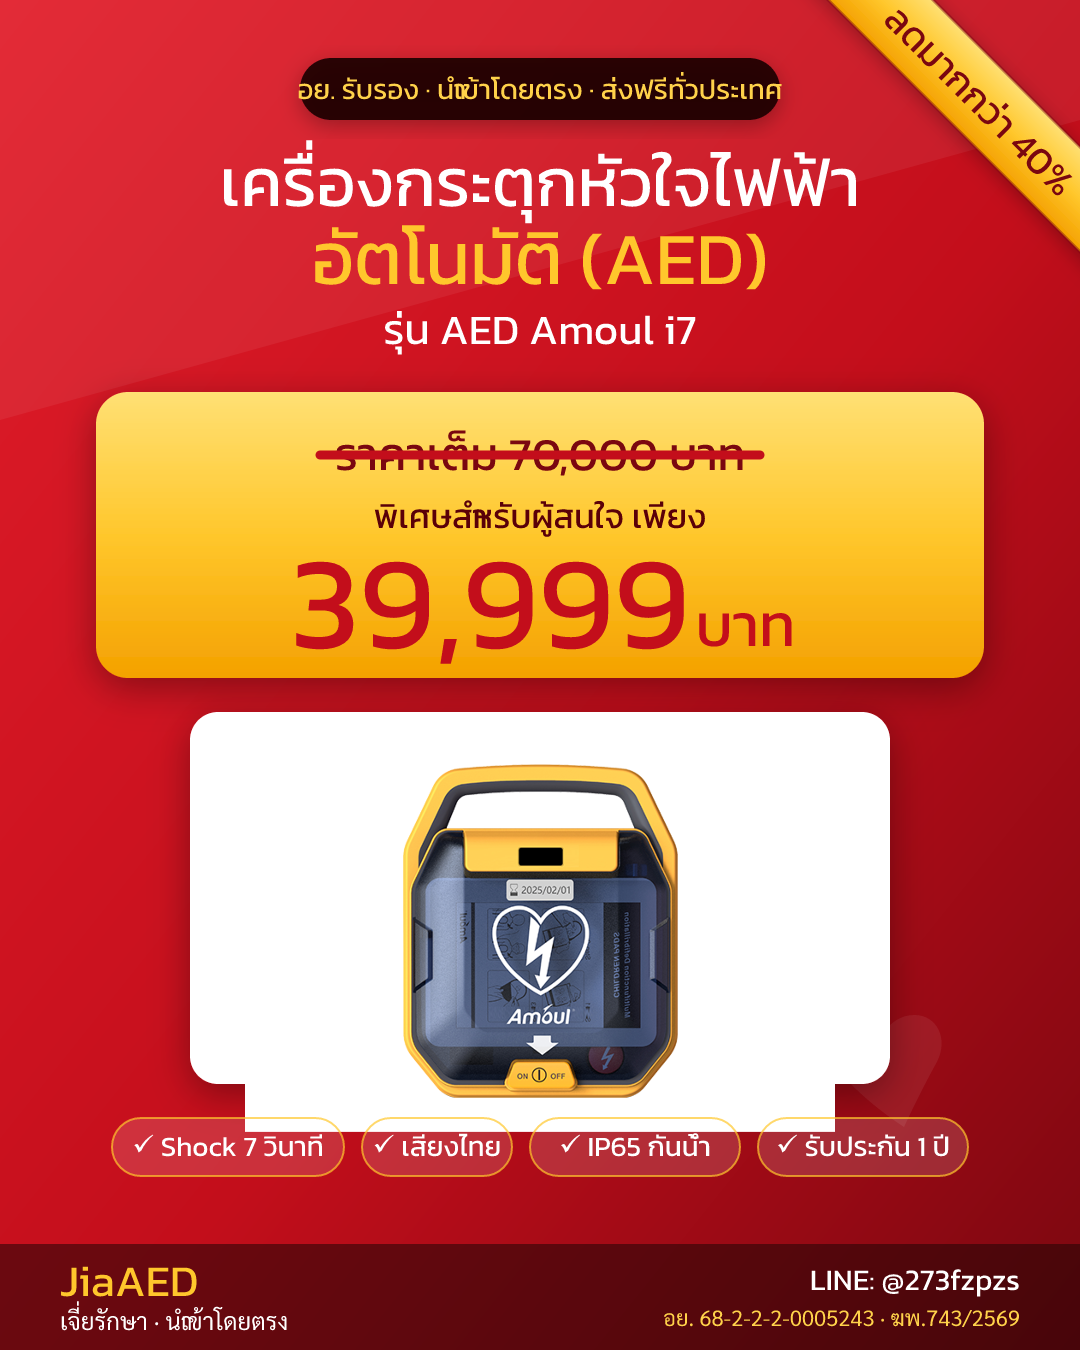
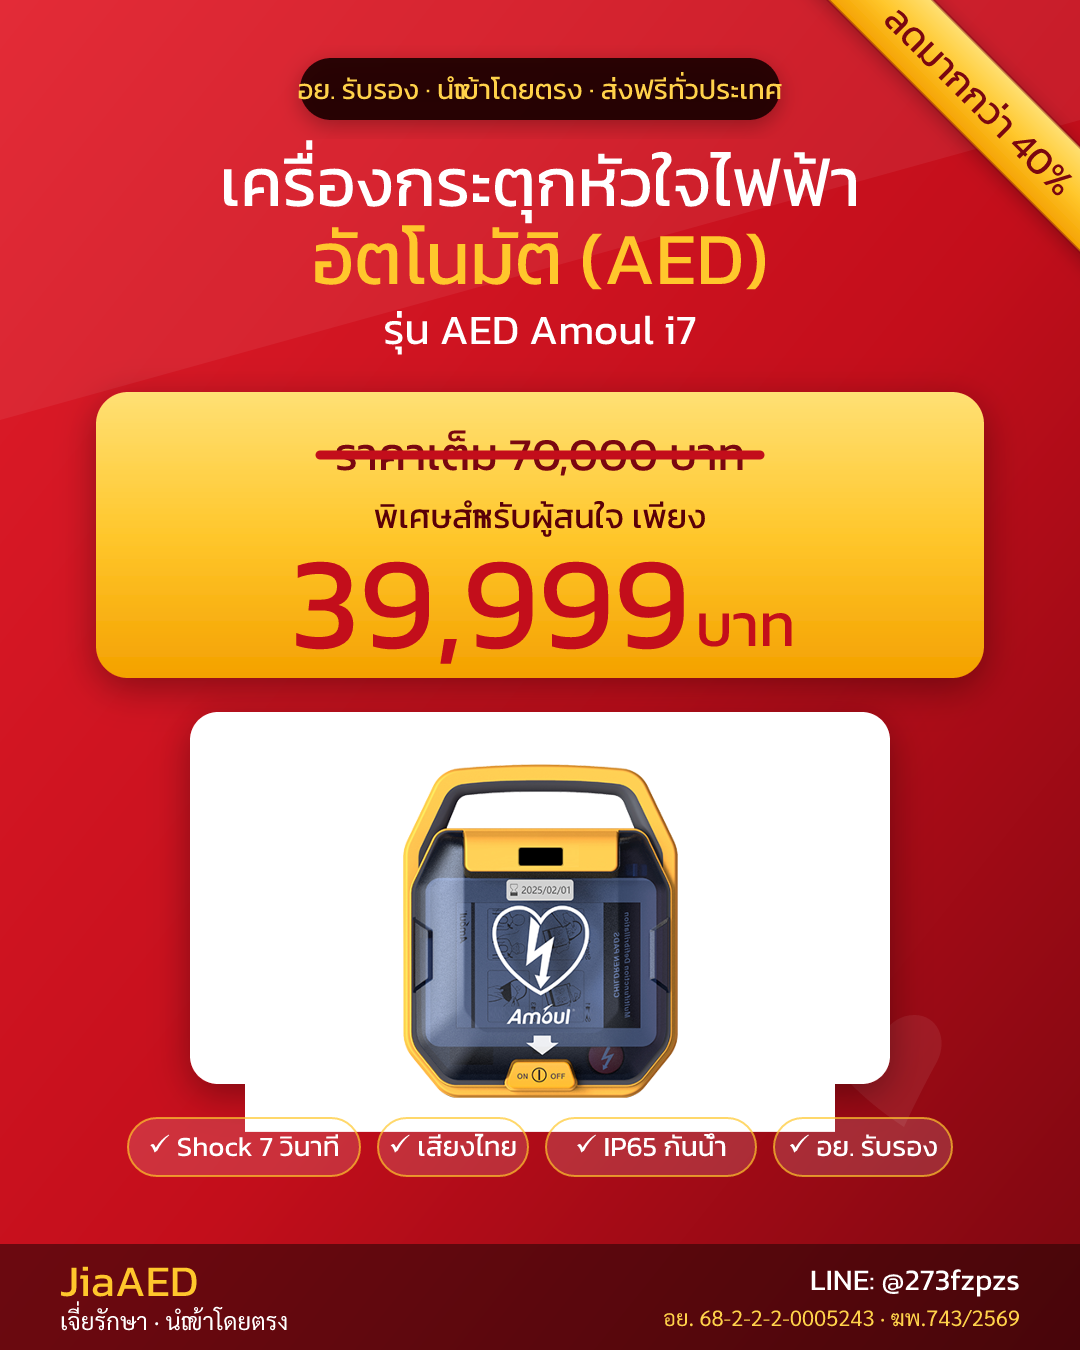
ถอด "รับประกัน 1 ปี" ออกจากทุกช่องทาง ให้สอบถามทีมขายแทน (#71)
ระยะประกัน 1 ปีเป็นจุดอ่อนเทียบคู่แข่ง จึงเลิกแสดงเป็นจุดขาย/สเปก
และเปลี่ยนเป็นข้อความบริการหลังการขาย + ส่งต่อให้ทีมขายตอบเงื่อนไขเอง

- products/หน้าเว็บ/landing/meta/OG: ลบ bullet และ stat ประกัน
- FAQ + knowledge + web-chat prompt + system prompt: ส่งต่อทีมขาย
  (แก้ system prompt ที่เคยระบุ 5 ปีซึ่งไม่สอดคล้องด้วย)
- llms.txt, Google/Meta ads copy, แผนเช่า: ถอดข้อความประกัน
- โปสเตอร์โปรโมชัน: เปลี่ยน chip เป็น 'อย. รับรอง' + regenerate PNG

Changed region(s): [[0.0917, 0.8089, 0.9167, 0.8711]]

diff --git a/app/aed/amoul-i7/page.tsx b/app/aed/amoul-i7/page.tsx
@@ -13,7 +13,7 @@ const LINE_OA = "https://line.me/R/ti/p/@273fzpzs";
 export const metadata: Metadata = {
   title: "AED Amoul i7 — รับส่วนลด + ใบเสนอราคาฟรี | JiaAED",
   description:
-    "เครื่องกระตุกหัวใจไฟฟ้า AED Amoul i7 — Shock 7 วินาที · เสียงไทย · IP65 · อย. รับรอง · รับประกัน 1 ปี · ฟรีค่าจัดส่ง",
+    "เครื่องกระตุกหัวใจไฟฟ้า AED Amoul i7 — Shock 7 วินาที · เสียงไทย · IP65 · อย. รับรอง · ฟรีค่าจัดส่ง",
   robots: { index: false, follow: false },
   alternates: { canonical: "/ads/aed-i7" },
   openGraph: {
@@ -143,7 +143,7 @@ export default function AdsLandingI7() {
         <div className="grid grid-cols-2 md:grid-cols-4 gap-3 mb-8">
           {[
             { icon: "🏅", title: "อย. รับรอง" },
-            { icon: "🛡️", title: "รับประกัน 1 ปี" },
+            { icon: "🛡️", title: "บริการหลังการขายไทย" },
             { icon: "🚚", title: "ส่งฟรีทั่วประเทศ" },
             { icon: "🧾", title: "ออกใบกำกับภาษี" },
           ].map((t) => (

diff --git a/app/layout.tsx b/app/layout.tsx
@@ -31,7 +31,7 @@ export const metadata: Metadata = {
     template: "%s · JiaAED",
   },
   description:
-    "AED Amoul i7 เครื่องกระตุกหัวใจไฟฟ้าอัตโนมัติ Shock พร้อมใน 7 วินาที เสียงแนะนำภาษาไทย IP65 กันน้ำ ทะเบียน อย. 68-2-2-2-0005243 · ฆพ.743/2569 · รับประกัน 1 ปี",
+    "AED Amoul i7 เครื่องกระตุกหัวใจไฟฟ้าอัตโนมัติ Shock พร้อมใน 7 วินาที เสียงแนะนำภาษาไทย IP65 กันน้ำ ทะเบียน อย. 68-2-2-2-0005243 · ฆพ.743/2569",
   keywords: [
     "AED",
     "เครื่องกระตุกหัวใจ",
@@ -50,7 +50,7 @@ export const metadata: Metadata = {
     siteName: "JiaAED",
     title: "JiaAED — AED Amoul i7 เครื่องกระตุกหัวใจไฟฟ้า",
     description:
-      "Shock พร้อมใน 7 วินาที · เสียงแนะนำภาษาไทย · IP65 กันน้ำ · อย. รับรอง · รับประกัน 1 ปี",
+      "Shock พร้อมใน 7 วินาที · เสียงแนะนำภาษาไทย · IP65 กันน้ำ · อย. รับรอง",
     images: [
       {
         url: "/images/aed-i7-poster.jpg",

diff --git a/app/page.tsx b/app/page.tsx
@@ -34,7 +34,6 @@ const specs = [
   { label: "โหมดการทำงาน", value: "Standalone (ค่าเริ่มต้น) — ใช้ช่วยชีวิตได้โดยไม่ต้องเชื่อมต่อ" },
   { label: "มาตรฐาน", value: "CE Mark · ISO 13485 · IP65 · EN 1789:2020 · ILCOR/AHA 2020-2025" },
   { label: "อุปกรณ์ที่รวมมา", value: "Electrode pads + แบตเตอรี่ + กระเป๋า + คู่มือไทย" },
-  { label: "รับประกัน", value: "1 ปี" },
 ];
 
 const adultShocks = [
@@ -115,7 +114,6 @@ export default function Home() {
               <li className="flex items-center gap-1.5"><span className="text-green-400">✓</span> อย. รับรอง</li>
               <li className="flex items-center gap-1.5"><span className="text-green-400">✓</span> ส่งทั่วประเทศ</li>
               <li className="flex items-center gap-1.5"><span className="text-green-400">✓</span> ออกใบกำกับภาษี</li>
-              <li className="flex items-center gap-1.5"><span className="text-green-400">✓</span> รับประกัน 1 ปี</li>
             </ul>
             <div className="flex flex-col sm:flex-row gap-3 mb-6">
               <HeroCta />
@@ -271,7 +269,7 @@ export default function Home() {
               {
                 icon: "🛠️",
                 title: "บริการหลังการขาย",
-                desc: "รับประกัน 1 ปีเต็ม พร้อมทีมเทคนิคให้คำปรึกษาตลอดอายุการใช้งาน 7+ ปี",
+                desc: "ทีมเทคนิคไทยพร้อมให้คำปรึกษาและดูแลตลอดอายุการใช้งาน 7+ ปี",
               },
               {
                 icon: "🇹🇭",

diff --git a/lib/aed/faqs.ts b/lib/aed/faqs.ts
@@ -60,9 +60,9 @@ export const faqs: FAQ[] = [
       "ได้ครับ รองรับการจัดซื้อภาครัฐ โรงพยาบาล และองค์กรเอกชน พร้อมเอกสารครบถ้วน — ใบเสนอราคา ใบกำกับภาษี ใบส่งของ และเอกสาร อย./ใบโฆษณา สอบถามได้ทาง LINE @273fzpzs",
   },
   {
-    question: "รับประกันกี่ปี มีบริการหลังการขายไหม?",
+    question: "มีบริการหลังการขายไหม?",
     answer:
-      "รับประกัน 1 ปีเต็ม พร้อมทีมเทคนิคให้คำปรึกษาตลอดอายุการใช้งาน 7+ ปี จัดส่งทั่วประเทศและบริการติดตั้งสาธิตการใช้งาน",
+      "มีครับ — ทีมเทคนิคไทยให้คำปรึกษาและดูแลตลอดอายุการใช้งาน 7+ ปี จัดส่งทั่วประเทศพร้อมบริการติดตั้งสาธิตการใช้งาน สอบถามเงื่อนไขการรับประกันและบริการของแต่ละรุ่นได้ที่ทีมขาย LINE @273fzpzs",
   },
   {
     question: "เครื่อง AED ควรติดตั้งที่ไหนบ้าง?",

diff --git a/lib/aed/knowledge.ts b/lib/aed/knowledge.ts
@@ -126,7 +126,8 @@ export const knowledgeArticles: KnowledgeArticle[] = [
   {
     id: "warranty-service",
     title: "การรับประกันและบริการหลังการขาย",
-    content: `- **รับประกัน 1 ปี** จากวันส่งมอบ (ครอบคลุมความผิดปกติของการผลิต ไม่ครอบคลุมอุบัติเหตุ การใช้ผิดวิธี)
+    content: `- **เงื่อนไขและระยะเวลาการรับประกัน:** สอบถามกับทีมขายเจี่ยรักษา (เงื่อนไขอาจต่างกันตามรุ่น/ล็อต) — ทักไลน์ @273fzpzs หรือ [กรอกฟอร์ม](/#contact)
+- ครอบคลุมความผิดปกติจากการผลิต ไม่ครอบคลุมอุบัติเหตุหรือการใช้ผิดวิธี
 - ห้ามให้บุคคลที่ไม่ได้รับการรับรองซ่อมเอง
 - Global hotline ผู้ผลิต: [phone redacted] (จันทร์-ศุกร์ 8:30-18:00)
 - ฉุกเฉิน 24/7: [phone redacted] (มี WhatsApp)

diff --git a/lib/aed/products.ts b/lib/aed/products.ts
@@ -22,7 +22,6 @@ export const products: Product[] = [
       "เสียงแนะนำ 5 ภาษา (TH/EN/CN/ES/IT)",
       "Escalating 100-360J ผู้ใหญ่ · 10-100J เด็ก",
       "Standalone — ไม่ต้องเชื่อมต่อก็ใช้งานได้",
-      "รับประกัน 1 ปี",
     ],
     badge: null,
   },
@@ -37,7 +36,6 @@ export const products: Product[] = [
       "ครบชุดพร้อมติดตั้ง",
       "ตู้กันฝุ่นกันน้ำ IP65",
       "สัญญาณเตือนเปิดตู้",
-      "รับประกัน 1 ปี",
     ],
     badge: "ยอดนิยม",
   },
@@ -52,7 +50,6 @@ export const products: Product[] = [
       "เคลื่อนย้ายได้สะดวก",
       "แท่นตั้งพื้นมั่นคง",
       "มองเห็นได้ชัด",
-      "รับประกัน 1 ปี",
     ],
     badge: null,
   },

diff --git a/lib/aed/system-prompt.ts b/lib/aed/system-prompt.ts
@@ -70,7 +70,7 @@ ${productBlock()}
 ## FAQ ที่ต้องตอบได้
 - AED คืออะไร: เครื่องช่วยชีวิตเมื่อหัวใจหยุดเต้น ใครก็ใช้ได้ มีเสียงแนะนำตลอด
 - ทำไมต้องมี: กฎหมายบังคับสถานที่สาธารณะ อาคาร >5000 ตรม. / พนักงาน >200 คน (พ.ร.บ. 2560)
-- รับประกัน: ตัวเครื่อง 5 ปี | แผ่น Pad 2 ปี | แบตเตอรี่ 5 ปี
+- รับประกัน: สอบถามเงื่อนไขและระยะเวลากับทีมขาย (อายุแบตเตอรี่ ≥ 5 ปี · แผ่นอิเล็กโทรด ~5 ปี เป็นข้อมูลอายุใช้งาน ไม่ใช่ระยะประกัน)
 - ส่งของ: Kerry Express ทั่วไทย 1-2 วันทำการ ฟรีค่าส่ง
 - ชำระ: โอน / บัตรเครดิต / QR PromptPay
 

diff --git a/lib/aed/web-chat-prompt.ts b/lib/aed/web-chat-prompt.ts
@@ -34,7 +34,7 @@ ${productBlock()}
 - ทะเบียน อย. 68-2-2-2-0005243
 - ใบโฆษณา ฆพ.743/2569
 - มาตรฐาน CE Mark · IP65 · ISO 13485 · EN 1789:2020
-- รับประกัน 1 ปี
+- เงื่อนไขการรับประกัน: สอบถามทีมขาย (LINE @273fzpzs)
 
 ## FAQ ที่ควรรู้
 

diff --git a/docs/google-ads-setup.md b/docs/google-ads-setup.md
@@ -121,7 +121,7 @@ Headlines (15 ชิ้น, ≤ 30 ตัวอักษร):
 - เสียงแนะนำภาษาไทย
 - IP65 กันน้ำกันฝุ่น
 - ใบโฆษณา ฆพ.743/2569
-- รับประกัน 1 ปีเต็ม
+- บริการหลังการขายไทย
 - พร้อมตู้/แท่นตั้งพื้น
 - ใช้ได้ทั้งผู้ใหญ่และเด็ก
 - ออกใบกำกับภาษีได้
@@ -133,7 +133,7 @@ Headlines (15 ชิ้น, ≤ 30 ตัวอักษร):
 
 Descriptions (4 ชิ้น, ≤ 90):
 - AED Amoul i7 เครื่องกระตุกหัวใจไฟฟ้าอัตโนมัติ Shock พร้อมใน 7 วินาที เสียงแนะนำภาษาไทย IP65
-- ทะเบียน อย. 68-2-2-2-0005243 · ฆพ.743/2569 · รับประกัน 1 ปี · ปรึกษาฟรีทาง LINE
+- ทะเบียน อย. 68-2-2-2-0005243 · ฆพ.743/2569 · ปรึกษาฟรีทาง LINE
 - ราคาเริ่ม 39,999 บาท พร้อมส่ง · มีตู้ติดผนัง/แท่นตั้งพื้น · ออกใบเสนอราคาทันที
 - เหมาะสำหรับสำนักงาน โรงเรียน โรงงาน ฟิตเนส และหน่วยงานภาครัฐ
 
@@ -141,7 +141,7 @@ Final URL: `https://jiaaed.vercel.app/?utm_source=google&utm_medium=cpc&utm_camp
 
 ### Sitelinks/Callouts/Structured snippets
 - Sitelinks: "ดูราคา 3 แพ็กเกจ" → `#products`, "สเปคเครื่อง" → `#specs`, "ทำไมเลือกเรา" → trust section, "คุยกับ AI ฟรี" → LINE
-- Callouts: "อย. รับรอง" "ส่งฟรีทั่วประเทศ" "รับประกัน 1 ปี" "ออกใบกำกับภาษี"
+- Callouts: "อย. รับรอง" "ส่งฟรีทั่วประเทศ" "บริการหลังการขายไทย" "ออกใบกำกับภาษี"
 - Structured snippet (Models): Amoul i7, Amoul i7+ตู้, Amoul i7+แท่นตั้ง
 
 ## 5. Performance Max campaign

diff --git a/docs/aed-rental-program.md b/docs/aed-rental-program.md
@@ -1,6 +1,6 @@
 # แผนธุรกิจ "ให้เช่า / เช่ายืม AED" (รายปี · รายเดือน · รายวัน)
 
-> สินค้า: **AED Amoul i7** (อย. รับรอง · รับประกัน 1 ปี · แบตเตอรี่ ≥ 7 ปี · แผ่นอิเล็กโทรด 5 ปี)
+> สินค้า: **AED Amoul i7** (อย. รับรอง · แบตเตอรี่ ≥ 7 ปี · แผ่นอิเล็กโทรด 5 ปี)
 > โจทย์: ต้นทุนเครื่อง ~25,000 บาท **ยังไม่รวม** ค่าคอมเซลล์ 10% และค่าขนส่ง — ทำเช่าแบบไหนถึงคุ้ม มัดจำเท่าไหร่ คืนทุนกี่เดือน
 
 ---

diff --git a/docs/meta-ads-setup.md b/docs/meta-ads-setup.md
@@ -53,7 +53,7 @@
 
 - **Objective**: Leads (Sales/Conversions) → optimize for `Lead`
 - **Ad Set**: location ไทย · งบเริ่ม 200–300 บาท/วัน · กลุ่ม in-market medical / safety / HR / เจ้าของกิจการ · placement Advantage+
-- **Creative**: รูปจาก `/public/images/` (aed-floorstand, aed-wallcabinet, product-main, lifestyle-cpr) + headline/copy รีไซเคิลจาก RSA ใน `google-ads-setup.md` (อย. / ฆพ.743/2569 / รับประกัน / ราคาเริ่ม 39,999)
+- **Creative**: รูปจาก `/public/images/` (aed-floorstand, aed-wallcabinet, product-main, lifestyle-cpr) + headline/copy รีไซเคิลจาก RSA ใน `google-ads-setup.md` (อย. / ฆพ.743/2569 / บริการหลังการขาย / ราคาเริ่ม 39,999)
 - **Ad URL**: `https://jiaaed.com/?utm_source=facebook&utm_medium=cpc&utm_campaign=<name>`
 
 > ⚠️ AED = เครื่องมือแพทย์ — เตรียม อย. `68-2-2-2-0005243` + ใบโฆษณา `ฆพ.743/2569` ไว้ เผื่อ ad review ขอ